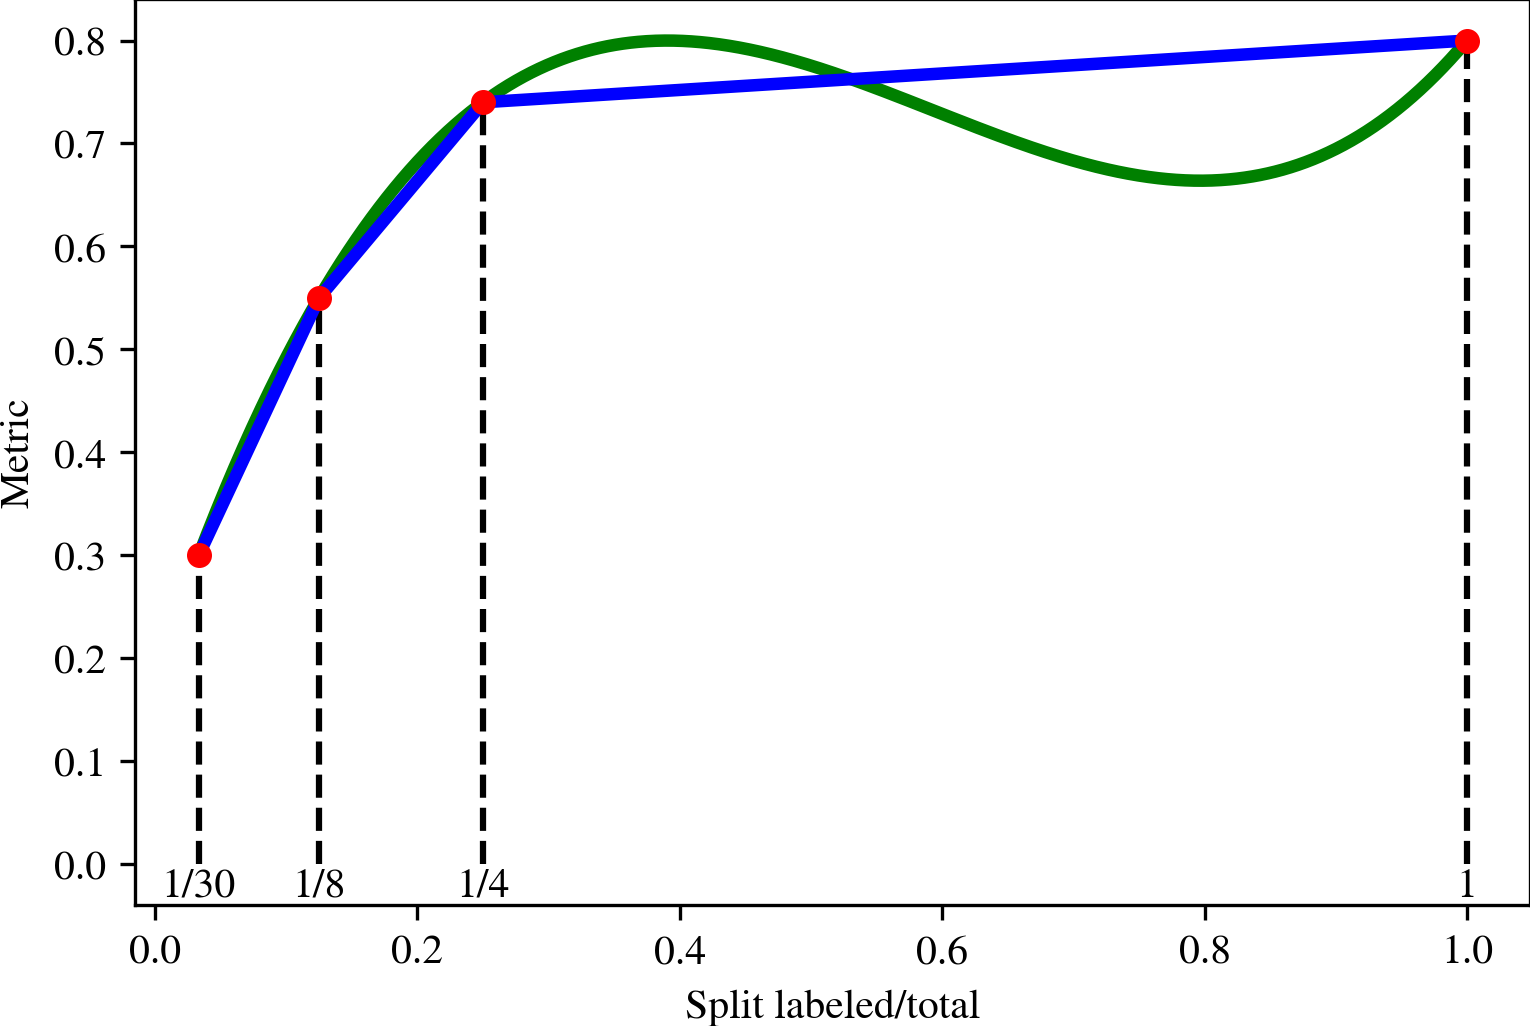
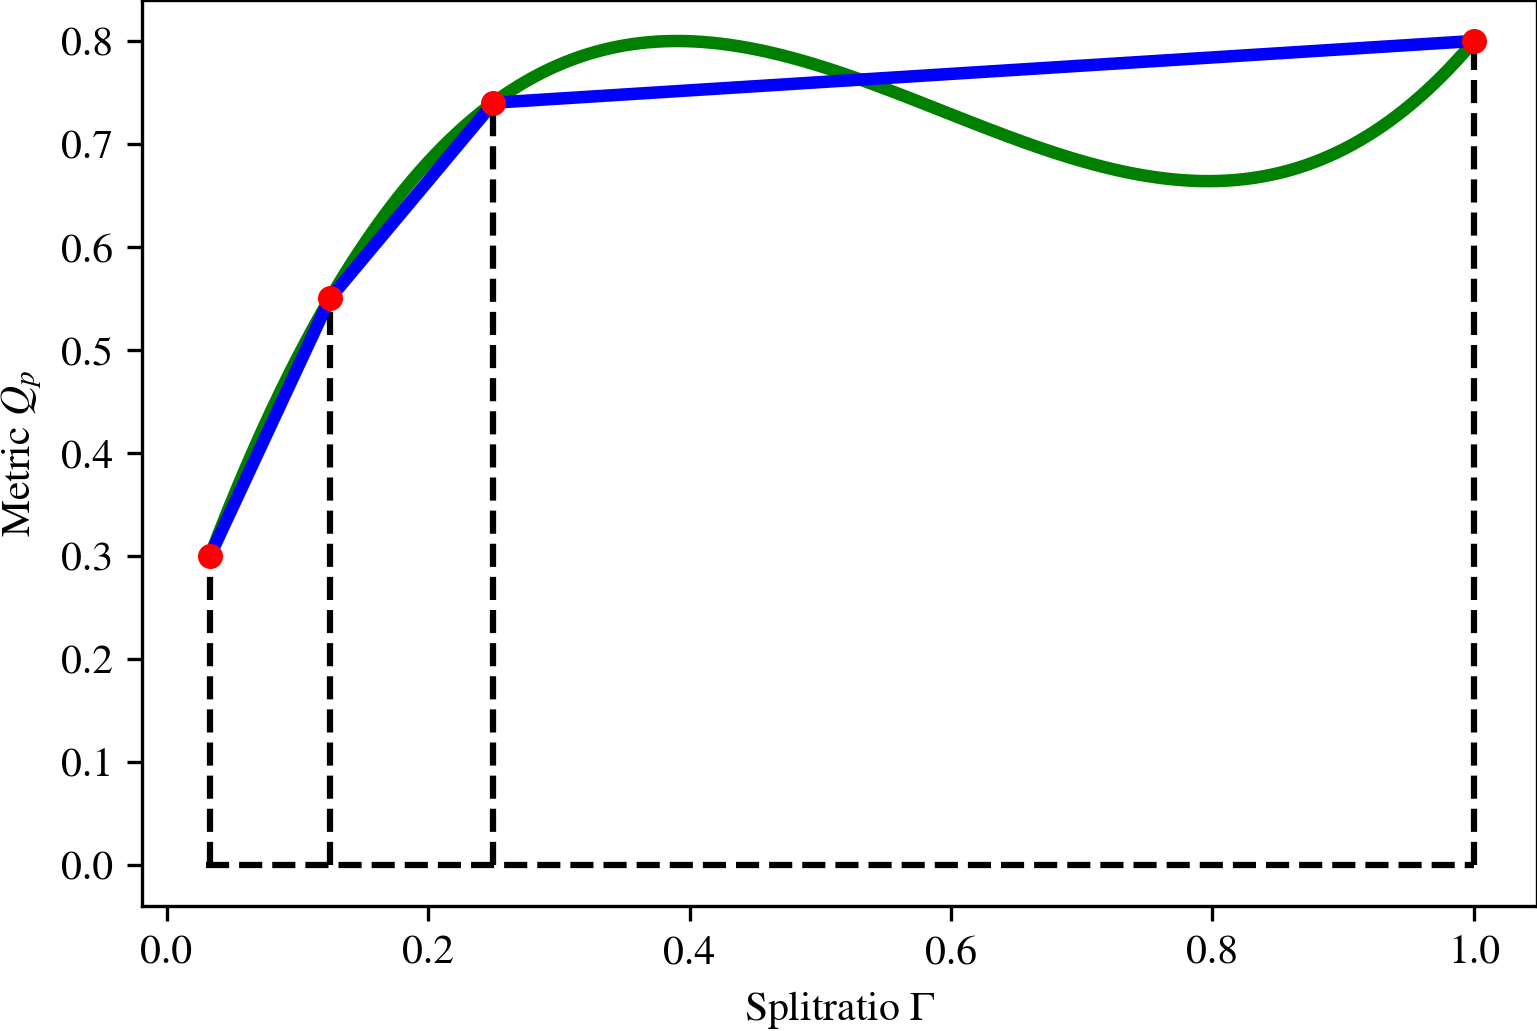
new test file

diff --git a/SSLightning4Med/visualization/wandb_download_and_plot.py b/SSLightning4Med/visualization/wandb_download_and_plot.py
@@ -1,6 +1,7 @@
 """
 This script downlaods metrics from Wandb, plots them, produces a latex table and saves results in a CSV
 """
+#%%
 import os
 from typing import Dict
 
@@ -9,20 +10,21 @@ import matplotlib.patches as mpatches
 import matplotlib.pyplot as plt
 import numpy as np
 import pandas as pd
-
-#%%
 from scipy.integrate import quad
 from scipy.interpolate import UnivariateSpline, interp1d
 
 import wandb
 
+matplotlib.rcParams["mathtext.fontset"] = "stix"
+matplotlib.rcParams["font.family"] = "STIXGeneral"
+
 #%%
 # Project is specified by <entity/project-name>
-project_name = "test2"
+project_name = "SSLightning4Med"
 # most important filters are: "display_name", "sweep" in combination with or:
 
 # Zebrafish
-name = "Early-Stopping and best-checkpoint"
+name = "heureka CCT"
 filters = {
     "Early-Stopping and best-checkpoint": {
         # "$or": [{"state": "finished"}, {"state": "crashed"}],
@@ -34,6 +36,7 @@ filters = {
     "Supervised all": {
         "sweep": "s6s9lkos",
     },
+    "heureka CCT": {"$or": [{"sweep": "9w5n97fs"}, {"sweep": "t7yc3a60"}, {"sweep": "tizubuhc"}]},
 }
 # download data
 api = wandb.Api()
@@ -78,10 +81,10 @@ metric_dict = {
     "mean Average Surface Distance": "test medpy_asd",
     "mean Hausdorff Distance": "test medpy_hd",
 }  # "test mDICE"#"test mIOU"
-
-matplotlib.rcParams["mathtext.fontset"] = "stix"
-matplotlib.rcParams["font.family"] = "STIXGeneral"
-
+#%%
+# drop duplicates
+df = all_df.copy()
+all_df = all_df.loc[all_df[["split", "dataset", "method", "shuffle"]].drop_duplicates(inplace=False).index, :]
 #%%
 # methods comparison
 prep_df = all_df
@@ -137,7 +140,7 @@ prep_df = all_df
 # prep_df = prep_df[prep_df["dataset"] == "melanoma"]
 metric_name = "mean DSC"
 metric = metric_dict[metric_name]
-
+check_df = pd.DataFrame()
 f, axes = plt.subplots(2, 3, figsize=(12, 6))
 # remove spacing between subplots
 plt.subplots_adjust(wspace=0.4, hspace=0.4)
@@ -150,10 +153,12 @@ for dataset_name, prep_df in all_df.groupby("dataset"):
         metric,
     ]
     method_df = prep_df[columns].groupby(["method", "split"]).agg([np.mean, np.std, np.count_nonzero])
+    # if an entry of count_nonzero is not 5, print the dataset name:
+
     method_df.dropna(axis=0, how="all", inplace=True)
     columns_table = list(set([el[0] for el in method_df.columns.tolist()]))
     method_df.head()
-
+    check_df = check_df.append(method_df[("test medpy_dc", "count_nonzero")].rename(dataset_name))
     # draw figure
     # fig, axes = plt.subplots()
     ax = axes[i // 3, i % 3]
@@ -186,7 +191,7 @@ for dataset_name, prep_df in all_df.groupby("dataset"):
     plt.savefig(
         f"figures/{project_name}_{name}_{metric}_dataset_comparison.pdf", transparent=False, bbox_inches="tight"
     )
-
+    print(check_df)
 # %%
 # a graph about the meanIou and trainer/global_step of the different methods
 
@@ -349,14 +354,18 @@ print(spl2.integral(0.0333, 1) / 0.96669)
 for i, xi in enumerate(x):
     plt.plot([xi, xi], [0, y[i]], "k--")
     # add label to x-axis
-    plt.text(xi, -0.04, comb_df["split"].iloc[i], ha="center", va="bottom")
+    # plt.text(xi, -0.04, comb_df["split"].iloc[i], ha="center", va="bottom")
 xs = np.linspace(0.0333, 1, 1000)
 plt.plot(xs, spl2(xs), "g", lw=3)
 f = interp1d(x, y)
 xs = np.linspace(0.03334, 1, 1000)
 plt.plot(xs, f(xs), "b", lw=3)
 plt.plot(x, y, "ro", ms=5)
-plt.xlabel("Split labeled/total")
-plt.ylabel("Metric")
-plt.savefig("metric_interpolation.png", pad_inches=0, bbox_inches="tight", transparent=True, dpi=300)
+# Gamma as greek symbol in x lable
+plt.xlabel(r"Splitratio $\Gamma$")
+# text with unterscore Q_p
+plt.ylabel(r"Metric $Q_p$")
+# horizontal line at 0.5
+plt.plot([0.03, 1], [0.0, 0.0], "k--")
+plt.savefig("metric_interpolation.pdf", pad_inches=0, bbox_inches="tight", transparent=True, dpi=300)
 # %%

diff --git a/SSLightning4Med/test.py b/SSLightning4Med/test.py
@@ -1,0 +1,87 @@
+import os
+from glob import glob
+
+import pytorch_lightning as pl
+from pytorch_lightning import seed_everything
+from pytorch_lightning.loggers import TensorBoardLogger, WandbLogger
+
+import wandb
+from SSLightning4Med.models.base_module import BaseModule
+from SSLightning4Med.models.data_module import SemiDataModule
+
+# from SSLightning4Med.models.train_bolt import BoltModule
+from SSLightning4Med.models.train_CCT import CCTModule
+from SSLightning4Med.models.train_fixmatch import FixmatchModule
+from SSLightning4Med.models.train_mean_teacher import MeanTeacherModule
+from SSLightning4Med.models.train_stplusplus import STPlusPlusModule
+from SSLightning4Med.models.train_supervised import SupervisedModule
+from SSLightning4Med.train import base_parse_args
+from SSLightning4Med.utils.augmentations import Augmentations
+from SSLightning4Med.utils.utils import get_color_map
+
+
+def main(args):
+    seed_everything(123, workers=True)
+    # Define DataModule with Augmentations
+    augs = Augmentations(args)
+    color_map = get_color_map(args.dataset)
+    dataModule = SemiDataModule(
+        root_dir=args.data_root,
+        batch_size=args.batch_size,
+        batch_size_unlabeled=args.batch_size_unlabeled,
+        split_yaml_path=args.split_file_path,
+        test_yaml_path=args.test_file_path,
+        pseudo_mask_path=args.pseudo_mask_path,
+        mode="train",
+        color_map=color_map,
+        num_workers=args.n_workers,
+    )
+
+    dataModule.val_transforms = augs.a_val_transforms()
+    # get filenames at dirpath os.path.join("./", f"{args.save_path}"),
+    files = glob(os.path.join("./", f"{args.save_path}", "*.ckpt"))
+    # get checkpoint with highest val_mIoU
+    max_mIoU = max([float(f.split("val_mIoU")[-1][1:5]) for f in files])
+    max_mIoU_file = [f for f in files if float(f.split("val_mIoU")[-1][1:5]) == max_mIoU][0]
+    max_epoch = max([int(f.split("epoch")[-1].split("-")[0][1:]) for f in files])
+    max_epoch_file = [f for f in files if int(f.split("epoch")[-1].split("-")[0][1:]) == max_epoch][0]
+
+    # load checkpoint with highest val_mIoU
+
+    if args.use_wandb:
+        wandb.finish()
+        # https://pytorch-lightning.readthedocs.io/en/1.5.0/extensions/generated/pytorch_lightning.loggers.WandbLogger.html
+        wandb.init(project=args.wandb_project, entity="gkeppler")
+        wandb_logger = WandbLogger(project=args.wandb_project)
+        wandb.config.update(args)
+
+    trainer = pl.Trainer.from_argparse_args(
+        args,
+        logger=wandb_logger if args.use_wandb else TensorBoardLogger("./tb_logs"),
+        gpus=[0],
+        precision=16,
+        log_every_n_steps=2,
+        # accelerator="cpu",
+        # profiler="simple",
+        # auto_lr_find=True,
+        # track_grad_norm=True,
+        # detect_anomaly=True,
+        # overfit_batches=1,
+    )
+    # define Module based on methods
+    module = {
+        "St++": STPlusPlusModule,
+        "CCT": CCTModule,
+        "Supervised": SupervisedModule,
+        "MeanTeacher": MeanTeacherModule,
+        "FixMatch": FixmatchModule,
+        # "Bolt": BoltModule,
+    }[args.method]
+    model = module(args)
+    trainer.test(datamodule=dataModule, model=model, ckpt_path=os.path.join(f"{args.save_path}", max_mIoU_file))
+    trainer.test(datamodule=dataModule, model=model, ckpt_path=os.path.join(f"{args.save_path}", max_epoch_file))
+
+
+if __name__ == "__main__":
+    args = base_parse_args(BaseModule)
+    main(args)

diff --git a/SSLightning4Med/data/hippocampus_data_processing.py b/SSLightning4Med/data/hippocampus_data_processing.py
@@ -106,7 +106,9 @@ def main(base_path: str):
     slices_path = os.path.join(raw_path, os.pardir, "slices")
     slice_images(raw_path, slices_path)
     # split data into train and test
-    filelist = [f for f in listdir(join(base_path, "images")) if isfile(join(base_path, "images", f))]
+    filelist = [
+        f for f in listdir(join(base_path, "slices", "images")) if isfile(join(base_path, "slices", "images", f))
+    ]
     # devide into train and test. Only last patient is test
     # 10% test data: first  19 subjects of 195 total
     test_subjects = [f[12:15] for f in filelist]
